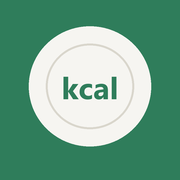
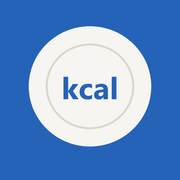
Akzentfarbe blau statt gruen, Protein wird gruen
Protein war vorher blau und haette sich mit dem neuen Akzent verwechseln
lassen.

diff --git a/web/stil.css b/web/stil.css
@@ -4,10 +4,10 @@
   --tinte: #1d1f1b;
   --leise: #6b6e66;
   --linie: #e4e2dc;
-  --akzent: #2f7d5b;
+  --akzent: #2563b8;
   --akzent-text: #ffffff;
   --warn: #b5502f;
-  --protein: #3d6fb6;
+  --protein: #2f8a5b;
   --kh: #d39a2c;
   --fett: #b5502f;
   --schatten: 0 1px 2px rgb(0 0 0 / 6%), 0 4px 16px rgb(0 0 0 / 5%);
@@ -19,10 +19,10 @@
     --tinte: #ecebe6;
     --leise: #9a9d94;
     --linie: #33362f;
-    --akzent: #5fbf91;
-    --akzent-text: #0f1a14;
+    --akzent: #6aa6f2;
+    --akzent-text: #0b1626;
     --warn: #e0866a;
-    --protein: #7aa5e8;
+    --protein: #6cc79a;
     --kh: #e8b955;
     --fett: #e0866a;
     --schatten: none;
